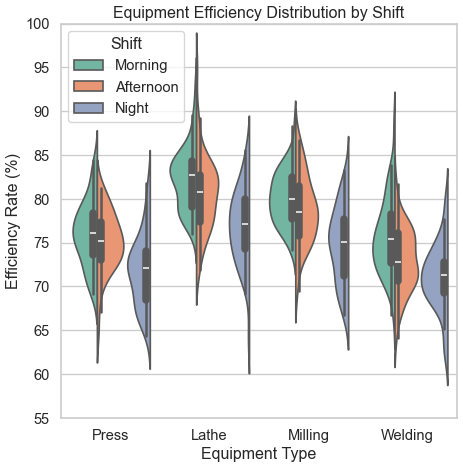
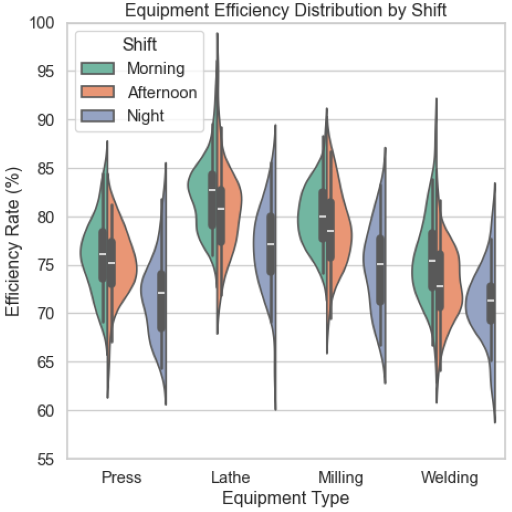
done

diff --git a/seaborn/chart.py b/seaborn/chart.py
@@ -42,8 +42,8 @@ for eq in equipment_types:
 # Convert data to a pandas DataFrame
 df = pd.DataFrame(data)
 
-# Set figure size for 512x512 pixels (dpi=64, figsize = 8x8 will give this resolution)
-plt.figure(figsize=(8, 8))
+# Set figure size for 8x8 inches and DPI 64, ensuring 512x512 pixels when saved
+plt.figure(figsize=(8, 8), dpi=64)  # Set DPI to 64 to achieve 512x512 pixels
 
 # Create the violinplot
 sns.violinplot(data=df, x='Equipment', y='Efficiency', hue='Shift', palette='Set2', split=True)
@@ -54,6 +54,6 @@ plt.xlabel('Equipment Type')
 plt.ylabel('Efficiency Rate (%)')
 plt.ylim(55, 100)  # Limit the y-axis for better readability
 
-# Save the plot as PNG with the correct dimensions
+# Save the plot as PNG with the correct dimensions (512x512)
 plt.savefig('chart.png', dpi=64, bbox_inches='tight')
 plt.close()
